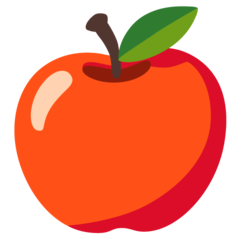
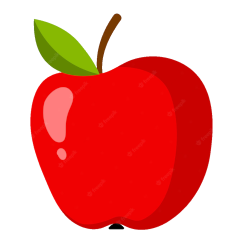
fixes

diff --git a/README.md b/README.md
@@ -1,37 +1,24 @@
-https://www.freepik.com/free-vector/hand-drawn-realistic-tropical-plants-animals-background_4592962.htm#page=3&query=giraffe&position=34&from_view=search&track=sph
-
-## Main Background:
-- https://www.freepik.com/free-vector/hand-drawn-realistic-tropical-plants-animals-background_4592962.htm#page=3&query=giraffe&position=34&from_view=search&track=sph
-
-## Borders:
-- https://www.freepik.com/premium-vector/square-bamboo-frame-blank-pattern-summer-single-vector-object_21100273.htm#from_view=detail_alsolike
-
-## Leaves:
-- https://www.freepik.com/free-vector/floating-falling-green-leaves-background-design-with-copyspace_9727949.htm#query=leaves&position=7&from_view=search&track=sph
-
-## Background:
-- https://www.freepik.com/premium-vector/africa-nature-landscape-with-giraffe-vector_29836542.htm#query=savanna&from_query=sawanna&position=40&from_view=search&track=sph
-- https://www.freepik.com/free-vector/african-savannah-landscape-wild-nature-africa_21267432.htm#page=3&query=savanna&position=20&from_view=search&track=sph
-- https://www.freepik.com/free-vector/silhouette-savanna-forest-with-wild-animals_23725023.htm#query=savanna&from_query=sawanna&position=1&from_view=search&track=sph
-- https://www.freepik.com/free-vector/savanna-forest-landscape-sunset-time_24555921.htm#query=savanna&from_query=sawanna&position=32&from_view=search&track=sph
-- https://www.freepik.com/free-vector/cartoon-african-animals-savannah-wild-beasts_29314744.htm#page=4&query=savanna&position=33&from_view=search&track=sph
+# 🦒ŻyrafoWąż
 
 
-# TODO
-- [X] Paralaxa tła
-- [x] Ogarnąć kolejność zdobywania
-- [x] Dodać listki
-- [x] Dodać resizowanie do ekranu
-- [x] Poprawić komunikat o wyniku
-- [x] Dodać listę plansz
-- [x] Dodać listę wyników
+## Authors:
+- Paweł Kubiak
+- Marek Ciążyński
+- Rafał Paprocki
 
-- [ ] Dodać sterowanie mobile
-- [ ] Dodać przeszkody
+## Screenshots
 
-- [ ] Dodać jakieś plansze
+## Gameplay
 
-## Bugs
-- [ ] Zduplikowane callbacki onpresskey
-- [ ] blokowanie możliwości wykonania skrętu pod prąd
-- [ ] Skręt głowy przy kliknięciu skrętu przed pierwszym ruchem
+
+## Used Assets
+Downloaded from FreePik using personal license:
+
+- [giraffe](https://www.freepik.com/free-vector/flat-zoo-animals-composition-with-buffalo-leopard-snake-squirrel-penguin-turtle-giraffe-flamingo-crocodile-peacock-raccoon-monkey-boar-lion-illustration_12986837.htm)
+- [background](https://www.freepik.com/free-vector/hand-drawn-realistic-tropical-plants-animals-background_4592962.htm)
+- [border](https://www.freepik.com/premium-vector/square-bamboo-frame-blank-pattern-summer-single-vector-object_21100273.htm)
+- [leaves](https://www.freepik.com/free-vector/floating-falling-green-leaves-background-design-with-copyspace_9727949.htm)
+- [menu / levels background](https://www.freepik.com/free-vector/african-savannah-landscape-wild-nature-africa_21267432.htm)
+- [apple](https://www.freepik.com/premium-vector/red-apple-shiny-fresh-fruit-delicious-snack_22142637.htm)
+
+# 
